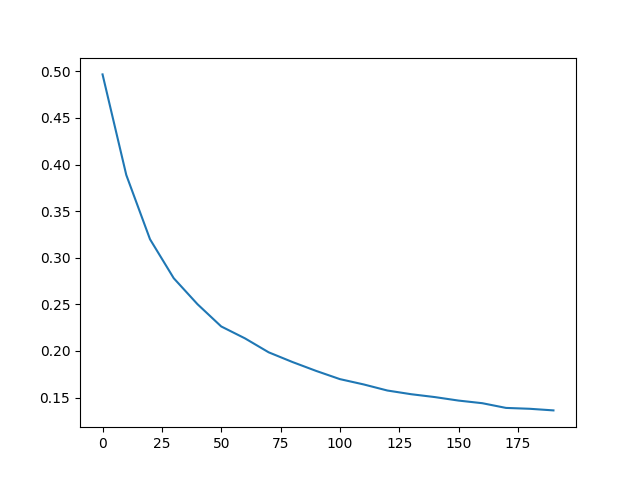
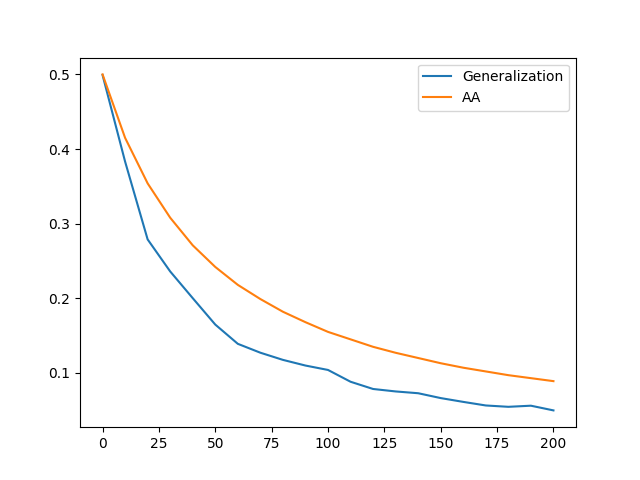
Bug is now solved; it was not a bug but a mistake in theoretical understanding; the curve should have been obtained for the perceptron upon convergence on the given dataset, as it is now.

diff --git a/reproducingFig1-4v2.py b/reproducingFig1-4v2.py
@@ -36,23 +36,33 @@ def targetLabel(input):
 	if int(inputA, 2) > int(inputB, 2): return 1
 	else: return -1 
 
+def getErr(weights, exampleSet):
+	successCount = 0
+	for exampleIdx, _ in enumerate(exampleSet):
+		if (perceptronLabel(weights, exampleSet[exampleIdx]) == targetLabel(exampleSet[exampleIdx])):
+			successCount += 1
+	return (1 - successCount / len(exampleSet))
+
+
 def getGenErr(weights):
 	# I haven't figured out how to get an exact value for the gen err, so here I do it numerically:
 	numIter = 100
-	successCount = 0
 	testSet = getTrainingSet(len(weights)//2, numIter)
-	for exampleIdx, _ in enumerate(testSet):
-		if (perceptronLabel(weights, testSet[exampleIdx]) == targetLabel(testSet[exampleIdx])):
-			successCount += 1
-	return (1 - successCount / numIter)
+	return getErr(weights, testSet)
 
-def trainPerceptron(startingWeights, trainingSet):
+def trainPerceptron(startingWeights, trainingSet, untilConvergence = True): # Last bool indicates whether to converge
 	weights = startingWeights
-	for example in trainingSet:
-		# We apply the perceptron training algorithm, as does the book
-		if np.dot(startingWeights, example) * targetLabel(example) <= 0:
-			# Update the weight vector:
-			weights = startingWeights + example * targetLabel(example)/np.sqrt(len(example//2))
+
+	while True:
+		hasConverged = True #  If we insist on convergence, we may set this to false
+		for example in trainingSet:
+			# We apply the perceptron training algorithm, as does the book
+			if np.dot(weights, example) * targetLabel(example) <= 0:
+				# Update the weight vector:
+				weights = weights + example * targetLabel(example)/np.sqrt(len(example//2))
+				if untilConvergence: hasConverged = False 
+		if hasConverged: # The algorithm has converged
+			break
 	return weights
 
 def AnnealedGenErr(alpha: float):
@@ -62,25 +72,27 @@ def AnnealedGenErr(alpha: float):
 	return x[np.argmax(fs)]
 
 
-def runRankingExperiment(numSimulations: int = 10, numberLength: int = 10):
+def runRankingExperiment(numSimulations: int = 100, numberLength: int = 10):
 	pList = [i * 10 for i in range(21)]
 	generalizationErrors = np.ndarray(shape = (len(pList), numSimulations))
+	trainingErrors = []
 	print(generalizationErrors.shape)
 	for simIdx in range(numSimulations):
 		trainingSet = getTrainingSet(numberLength, max(pList))
 		weights = np.random.rand(trainingSet.shape[1]) * 2 - 1 # initialize perceptron
 
 		# We train in intervals, therefore we have len(pList) - 1 intervals
-		for pIdx in range(len(pList)-1):
-			weights = trainPerceptron(weights, trainingSet[pList[pIdx]:pList[pIdx + 1]])
+		for pIdx, p in enumerate(pList):
+			weights = trainPerceptron(weights, trainingSet[0:p])
 			generalizationErrors[pIdx, simIdx] = getGenErr(weights)
+			
 
 	# We trained in intervals, therefore we leave out 1 of the pList in both x- and y-axes 
-	plt.plot(pList[1:], [np.mean(generalizationErrors[i, :]) for i in range(len(pList) - 1)])
-
+	plt.plot(pList, [np.mean(generalizationErrors[i, :]) for i in range(len(pList))], label = "Generalization")
 	#Obtain generalization error through annealed approximation (see book) and plot
 	AnnealedErrorList = [AnnealedGenErr(p / (numberLength * 2)) for p in pList]
-	plt.plot(pList, AnnealedErrorList)
+	plt.plot(pList, AnnealedErrorList, label = "AA")
+	plt.legend()
 	plt.show()
 
 runRankingExperiment()
